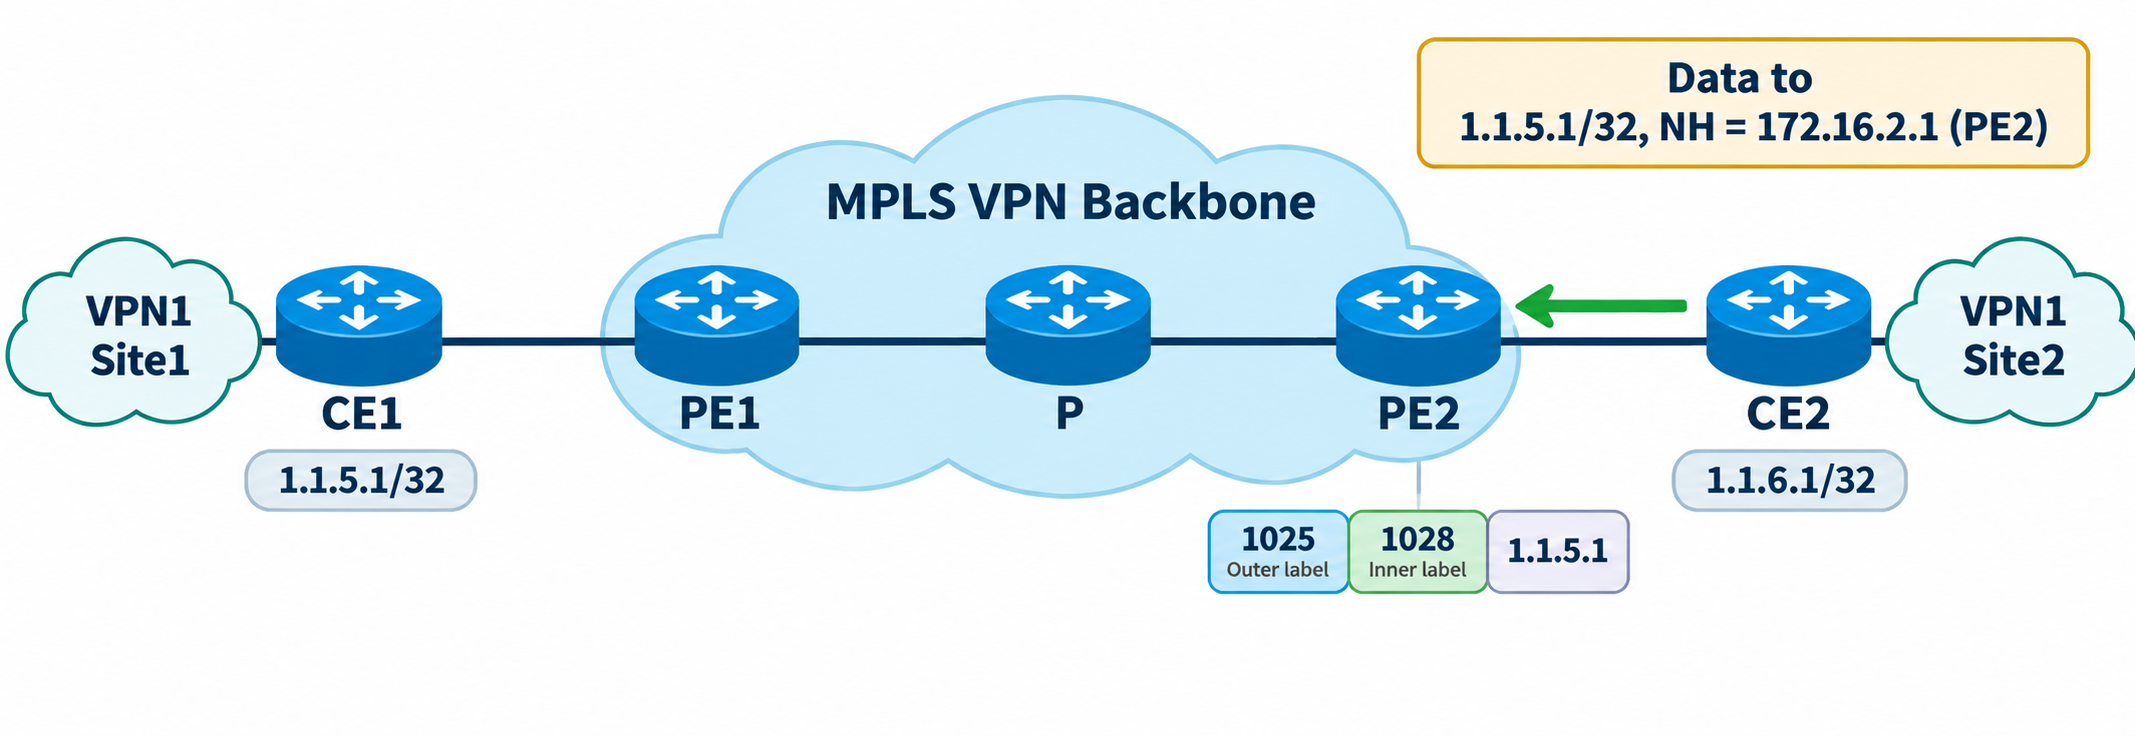
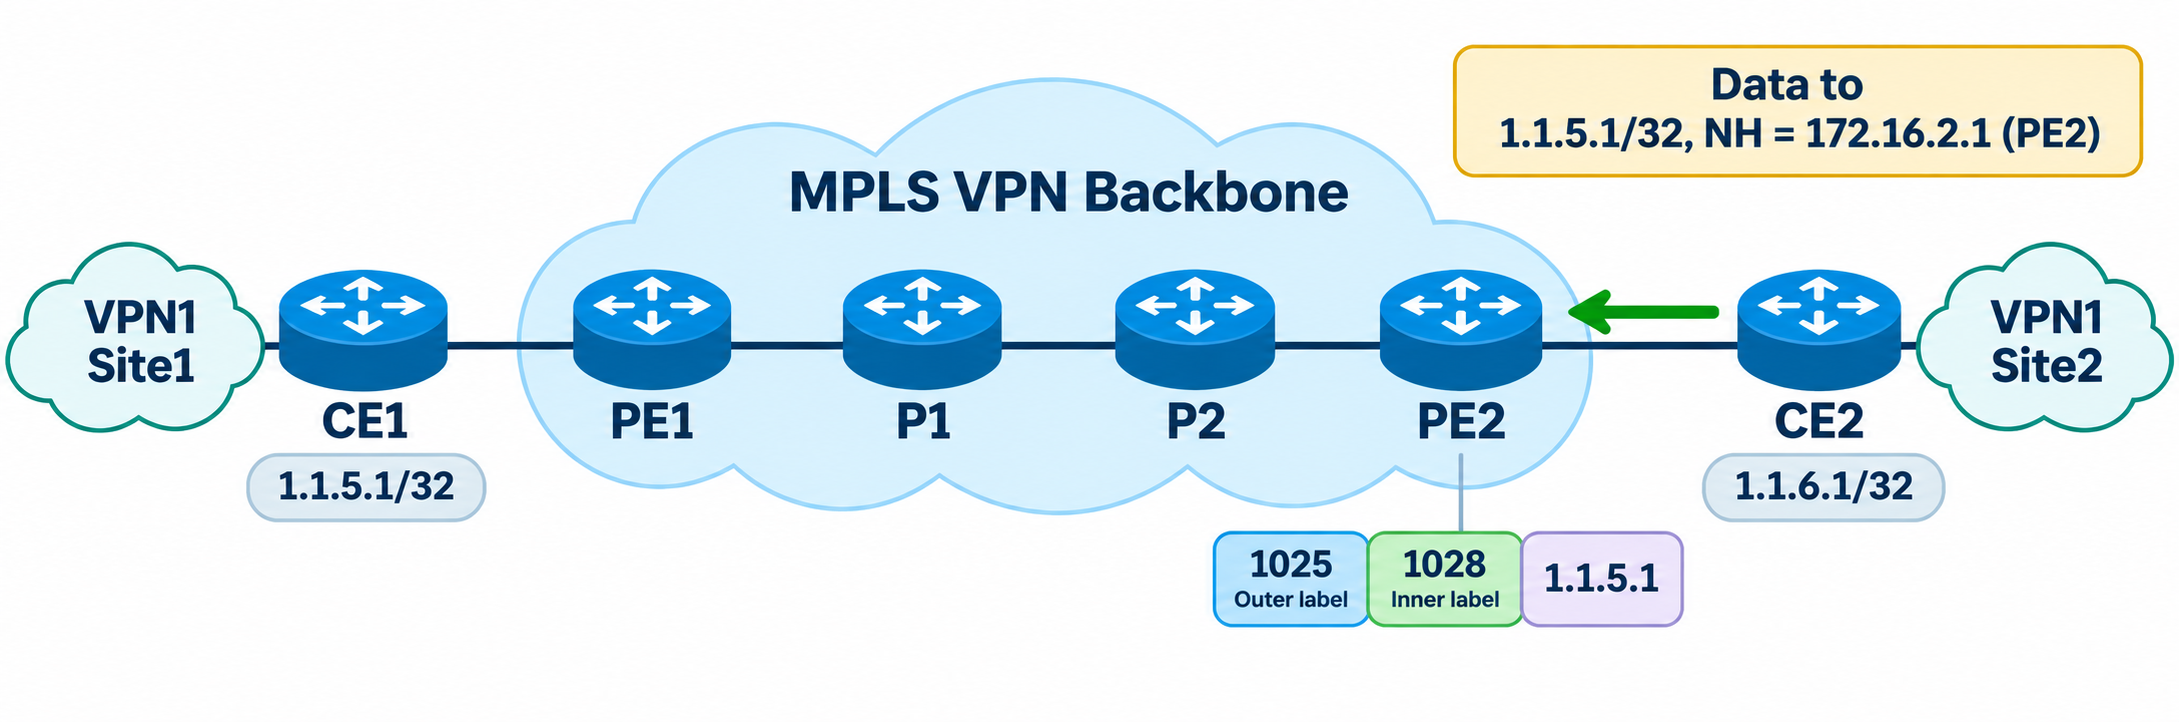
mpls vpn 基础

Changed region(s): [[0.0, 0.0305, 1.0, 0.8837]]

diff --git a/计算机网络/网络层/mpls/MPLS VPN 基础之一.md b/计算机网络/网络层/mpls/MPLS VPN 基础之一.md
@@ -441,13 +441,24 @@ Destination: 1.1.5.1/32
 在转发表中可以查找到转发该报文的公网下一跳（即对端 PE 的 Loopback 接口地址 **`10.1.1.1/32`**）及私网标签 1028，PE2 封装上私网标签后，还需要再封装一个公网标签，**<font color="red">于是 PE2 通过查询公网标签转发表（LSP 转发表）找到到达下一跳地址（对端 PE 的 Loopback 接口地址 **`10.1.1.1/32`**）的标签</font>**，然后将其作为公网标签封装在私网标签的外层。两层标签都封装好后，PE2 就将该数据包转发到 MPLS 网络中。
 
 ```java{.line-numbers}
-<AR4>display mpls ldp lsp 
- LDP LSP Information
- -------------------------------------------------------------------------------
- DestAddress/Mask   In/OutLabel    UpstreamPeer    NextHop         OutInterface
- -------------------------------------------------------------------------------
- 10.1.1.1/32        NULL/1025      -               10.1.34.3       GE0/0/0
- 10.1.1.1/32        1024/1025      10.3.3.3        10.1.34.3       GE0/0/0
+<AR4>display mpls lsp
+------------------------------------------------------------------------------- 
+LSP Information: BGP LSP
+------------------------------------------------------------------------------- 
+FEC In/Out Label In/Out IF Vrf Name 
+172.16.2.0/24 1027/NULL -/- vpna 
+1.1.6.1/32 1028/NULL -/- vpna
+------------------------------------------------------------------------------- 
+LSP Information: LDP LSP
+------------------------------------------------------------------------------- 
+FEC In/Out Label In/Out IF Vrf Name 
+10.1.1.1/32 NULL/1025 -/GE0/0/0 
+10.1.1.1/32 1024/1025 -/GE0/0/0 
+10.2.2.2/32 NULL/1024 -/GE0/0/0 
+10.2.2.2/32 1025/1024 -/GE0/0/0 
+10.3.3.3/32 NULL/3 -/GE0/0/0 
+10.3.3.3/32 1026/3 -/GE0/0/0 
+10.4.4.4/32 3/NULL -/-
 ```
 
 从上述的 LDP LSP 信息中可以看到，第一条 **`LSR NULL/1025`**，PE2 作为入站 LSR，当 PE2 收到 CE2 发来的普通 IPv4 报文时，首先获得目的前缀 **`1.1.5.1/32`** 对应的私网标签 1028。随后根据 BGP 下一跳 **`10.1.1.1`** 递归到对应的公网 LDP LSP，找到对应的公网标签 1025，并且对业务报文执行公网标签压入（Push）操作。
@@ -499,7 +510,54 @@ Lsp Index:                    6144
 
 #### 4.3.2 数据由入站的 PE 转发给出站 PE
 
-在前文有说到，当 IP 报文由入站 PE 进入 MPLS 网络后会通过 LSP 转发，并且通过中间的 P 设备查找标签转发表进行标签交换，最终通过公网 LSP 转发到出站的 PE。
+在前文有说到，当 IP 报文由入站 PE2 进入 MPLS 网络后会通过 LSP 转发。当 P2 路由器收到数据包时，会根据数据包的公网标签直接根据标签转发表进行转发，由下面的输出可以知道，P2 路由器接收到带有标签值为 1025 的报文时，直接将标签交换成出标签 1025，然后从 **`GE0/0/0`** 转发给下一跳 P1 路由器。
+
+```java{.line-numbers}
+<AR3>display mpls lsp
+------------------------------------------------------------------------------- 
+LSP Information: LDP LSP
+------------------------------------------------------------------------------- 
+FEC In/Out Label In/Out IF Vrf Name 
+10.3.3.3/32 3/NULL -/- 
+10.2.2.2/32 NULL/3 -/GE0/0/0 
+10.2.2.2/32 1024/3 -/GE0/0/0 
+10.1.1.1/32 NULL/1025 -/GE0/0/0 
+10.1.1.1/32 1025/1025 -/GE0/0/0 
+10.4.4.4/32 NULL/3 -/GE0/0/1 
+10.4.4.4/32 1026/3 -/GE0/0/1 
+<AR2>display mpls lsp
+------------------------------------------------------------------------------- 
+LSP Information: LDP LSP
+------------------------------------------------------------------------------- 
+FEC In/Out Label In/Out IF Vrf Name 
+10.3.3.3/32 NULL/3 -/GE0/0/1 
+10.3.3.3/32 1024/3 -/GE0/0/1 
+10.2.2.2/32 3/NULL -/- 
+10.1.1.1/32 NULL/3 -/GE0/0/0 
+10.1.1.1/32 1025/3 -/GE0/0/0 
+10.4.4.4/32 NULL/1026 -/GE0/0/1 
+10.4.4.4/32 1026/1026 -/GE0/0/1
+<AR1>display mpls lsp
+------------------------------------------------------------------------------- 
+LSP Information: BGP LSP
+------------------------------------------------------------------------------- 
+FEC In/Out Label In/Out IF Vrf Name 
+172.16.1.0/24 1027/NULL -/- vpna 
+1.1.5.1/32 1028/NULL -/- vpna
+------------------------------------------------------------------------------- 
+LSP Information: LDP LSP
+------------------------------------------------------------------------------- 
+FEC In/Out Label In/Out IF Vrf Name 
+10.3.3.3/32 NULL/1024 -/GE0/0/1 
+10.3.3.3/32 1024/1024 -/GE0/0/1 
+10.2.2.2/32 NULL/3 -/GE0/0/1 
+10.2.2.2/32 1025/3 -/GE0/0/1 
+10.1.1.1/32 3/NULL -/- 
+10.4.4.4/32 NULL/1026 -/GE0/0/1 
+10.4.4.4/32 1026/1026 -/GE0/0/1
+```
+
+数据流到达 P1 路由器，P1 路由器与 P2 路由器对数据包的处理是一样的，P1 路由器查找标签转发表，将公网标签 1025 弹出，然后将报文转发给 PE1，此时数据包中只剩下一层私网标签。
 
 #### 4.3.3 数据由出站的 PE 转发给远端的 CE
 
@@ -511,17 +569,11 @@ Lsp Index:                    6144
 
 至此，客户通过 MPLS VPN 完成了私网站点之间的流量转发，可以发现 VPN 业务的数据流是经过骨干网的 LSP 隧道方式进行转发的，从而保证了客户数据的安全性。传递 VPN 业务数据流时需要使用到两层标签（私网标签+公网标签），公网标签用于帮助 VPN 业务数据流穿越公网中的 LSP，而私网标签用于 LSP 的出站 PE 进行判断该向哪个 VPN 实例进行转发。
 
-### 4.2 CE-PE 之间运行静态路由
+因此上述数据层面的数据转发过程为：当 Site2 向 Site1 的 **`1.1.5.1/32`** 发送业务数据时，CE2 首先根据通过 OSPF 学习到的路由，将普通 IPv4 报文转发给 PE2（**`172.16.2.1`**）。PE2 收到报文后，根据入接口绑定的 VPN 实例 vpna 查询对应的转发表，**<font color="red">同时获得 PE1 分配的私网标签 1028，以及 BGP 下一跳 PE1 的 Loopback0 地址 `10.1.1.1`</font>**。
 
-华为 MPLS L3VPN：import-route static 到底是什么意思？
+由于该 BGP 下一跳并非直连，PE2 需要进行公网下一跳及 MPLS 隧道递归解析。首先根据骨干 OSPF 路由确定到达 **`10.1.1.1/32`** 的实际下一跳为 P2（**`10.1.34.3`**），随后找到以 **`10.1.1.1/32`** 为 FEC 的公网 LDP LSP。该 LSP 的公网出标签在 PE2 上为 1025，由下游 P2 通过 LDP 通告给 PE2，且标签操作为 PUSH。因此，PE2 先为数据报文压入内层私网标签 1028，再压入外层公网标签 1025，形成双层标签结构，并将其转发给 P2。
 
-不是把静态路由引入 vpna 实例的路由表，而是把 vpna 实例路由表中的静态路由引入 BGP，使其能够通过 MP-BGP VPNv4 发布给远端 PE。
+P2（AR3）收到报文后，根据公网入标签 1025 查找 MPLS 标签转发表，将其交换为出标签 1025，随后转发给 P1（AR2）。P1 收到报文后，根据标签转发表匹配到 **`1025/3`**，由于出标签 3 为隐式空标签，因此执行 PHP（倒数第二跳弹出） 操作，移除外层公网标签，仅保留私网标签 1028，再将报文转发给 PE1。
 
-你这里实际上混淆了两个不同的操作：
-
-配置 VPN 实例的静态路由：通过 ip route-static vpn-instance vpna ...，让静态路由进入 vpna 的路由表。
-
-将 VPN 实例的静态路由引入 BGP：通过 bgp 100 下的 ipv4-family vpn-instance vpna → import-route static，让 BGP 学习该 VPN 实例中的静态路由。
-
-### 4.3 CE-PE 之间运行 BGP 协议
+最后，PE1（AR1）根据私网标签 1028 查找对应的 VPN 转发信息，识别出 VPN 实例 vpna 及目的路由 **`1.1.5.1/32`**，移除私网标签，将报文还原为普通 IPv4 报文，并转发给 CE1（**`172.16.1.2`**）。
 

diff --git a/计算机网络/网络层/mpls/MPLS VPN 基础之二.md b/计算机网络/网络层/mpls/MPLS VPN 基础之二.md
@@ -1,0 +1,139 @@
+# MPLS VPN 基础
+
+## 5.CE-PE 之间运行静态路由
+
+### 5.1 网络拓扑介绍
+
+如下图所示，某客户（VPN A）的两个站点（Site1 和 Site2）通过 MPLS VPN 实现互访，其中 CE1 连接 Site1，CE1 通过服务提供商的 PE1 接入至 MPLS VPN 骨干网。CE2 连接 Site2，CE2 通过服务提供商的 PE2 接入至 MPLS VPN 骨干网。
+
+<div align="center">
+    <img src="mpls_static/49.png" width="750"/>
+</div>
+
+服务商骨干网的 BGP AS 号为 100，IGP 使用 OSPF，服务商为客户分配的 VPN 实例名为 vpna，RD 值为 **`100:1`**，Site1 和 Site2 的 Import RT 值和 Export RT 值均为 **`1:1`**，PE-CE 之间使用静态路由。
+
+在上述拓扑图中，作为经典的 MPLS L3 VPN 技术中，OSPF 作为运营商骨干网的 IGP，提供公网路由可达性，确保各 PE、P 路由器之间能够互相到达。**<font color="red">MPLS LDP 基于骨干网的 IP 可达性分发公网标签，建立从入口 PE 到出口 PE 的公网 LSP。MP-BGP VPNv4 在 PE 路由器之间交换客户 VPN 路由和私网标签</font>**，私网标签由通告 VPN 路由的出口 PE 分配，再通过 MP-BGP 随 VPNv4 路由传递给入口 PE。
+
+中间 P 路由器 根据外层 MPLS 标签完成标签交换，无需学习客户 VPN 路由，不需要运行 BGP。出口 PE 根据私网标签确定对应 VRF 中的转发信息，并将数据包发送给目标 CE，最终到达目的站点。上述拓扑图的逻辑拓扑图如下所示。
+
+<div align="center">
+    <img src="mpls_static/50.png" width="650"/>
+</div>
+
+具体 AR1 上的配置如下所示：
+
+```java{.line-numbers}
+#
+ sysname AR1
+#
+ip vpn-instance vpna
+ ipv4-family
+  route-distinguisher 100:1
+  vpn-target 1:1 export-extcommunity
+  vpn-target 1:1 import-extcommunity
+#
+mpls lsr-id 10.1.1.1
+mpls
+#
+mpls ldp
+#
+interface GigabitEthernet0/0/0
+ ip binding vpn-instance vpna
+ ip address 172.16.1.1 255.255.255.0 
+#
+interface GigabitEthernet0/0/1
+ ip address 10.1.12.1 255.255.255.0 
+ mpls
+ mpls ldp
+#
+interface LoopBack0
+ ip address 10.1.1.1 255.255.255.255 
+#
+bgp 100
+ router-id 10.1.1.1
+ undo default ipv4-unicast
+ peer 10.4.4.4 as-number 100 
+ peer 10.4.4.4 connect-interface LoopBack0
+ #
+ ipv4-family unicast
+  undo synchronization
+  undo peer 10.4.4.4 enable
+ # 
+ ipv4-family vpnv4
+  policy vpn-target
+  peer 10.4.4.4 enable
+ #
+ ipv4-family vpn-instance vpna 
+  import-route static
+#
+ospf 1 router-id 1.1.1.1 
+ area 0.0.0.0 
+  network 10.1.1.1 0.0.0.0 
+  network 10.1.12.0 0.0.0.255 
+#
+ip route-static vpn-instance vpna 1.1.5.1 255.255.255.255 172.16.1.2
+```
+
+AR4 上的配置如下所示：
+
+```java{.line-numbers}
+#
+ sysname AR4
+#
+ip vpn-instance vpna
+ ipv4-family
+  route-distinguisher 100:1
+  vpn-target 1:1 export-extcommunity
+  vpn-target 1:1 import-extcommunity
+#
+mpls lsr-id 10.4.4.4
+mpls
+#
+mpls ldp
+#
+interface GigabitEthernet0/0/0
+ ip address 10.1.34.4 255.255.255.0 
+ mpls
+ mpls ldp
+#
+interface GigabitEthernet0/0/1
+ ip binding vpn-instance vpna
+ ip address 172.16.2.1 255.255.255.0 
+#
+interface LoopBack0
+ ip address 10.4.4.4 255.255.255.255 
+#
+bgp 100
+ router-id 10.4.4.4
+ undo default ipv4-unicast
+ peer 10.1.1.1 as-number 100 
+ peer 10.1.1.1 connect-interface LoopBack0
+ #
+ ipv4-family unicast
+  undo synchronization
+  undo peer 10.1.1.1 enable
+ # 
+ ipv4-family vpnv4
+  policy vpn-target
+  peer 10.1.1.1 enable
+ #
+ ipv4-family vpn-instance vpna 
+  import-route static
+#
+ospf 1 router-id 4.4.4.4 
+ area 0.0.0.0 
+  network 10.1.34.0 0.0.0.255 
+  network 10.4.4.4 0.0.0.0 
+#
+ip route-static vpn-instance vpna 1.1.6.1 255.255.255.255 172.16.2.2
+```
+
+注意，在 PE1 的上述配置中，**`ipv4-family vpn-instance vpna import-route static`** **<font color="red">用来将 VPN 实例 vpna 中的静态路由引入到 BGP 中</font>**。而 **`ipv4-family vpnv4 peer 10.1.1.1 enable`** 表示允许 PE2 与 PE1 通过 MP-BGP 交换 VPNv4 地址族的路由信息。因此综合上述配置，效果就是使得该 vpna 中的静态路由能够通过 MP-BGP VPNv4 发布给远端 PE。
+
+**`ip route-static vpn-instance vpna 1.1.5.1 255.255.255.255 172.16.1.2`** 表示在 PE1 的 vpna 实例中配置了一条静态路由，指向 CE1 的地址。
+
+### 5.2 控制层面
+
+### 5.3 数据层面
+
+## 6.CE-PE 之间运行 BGP 协议
